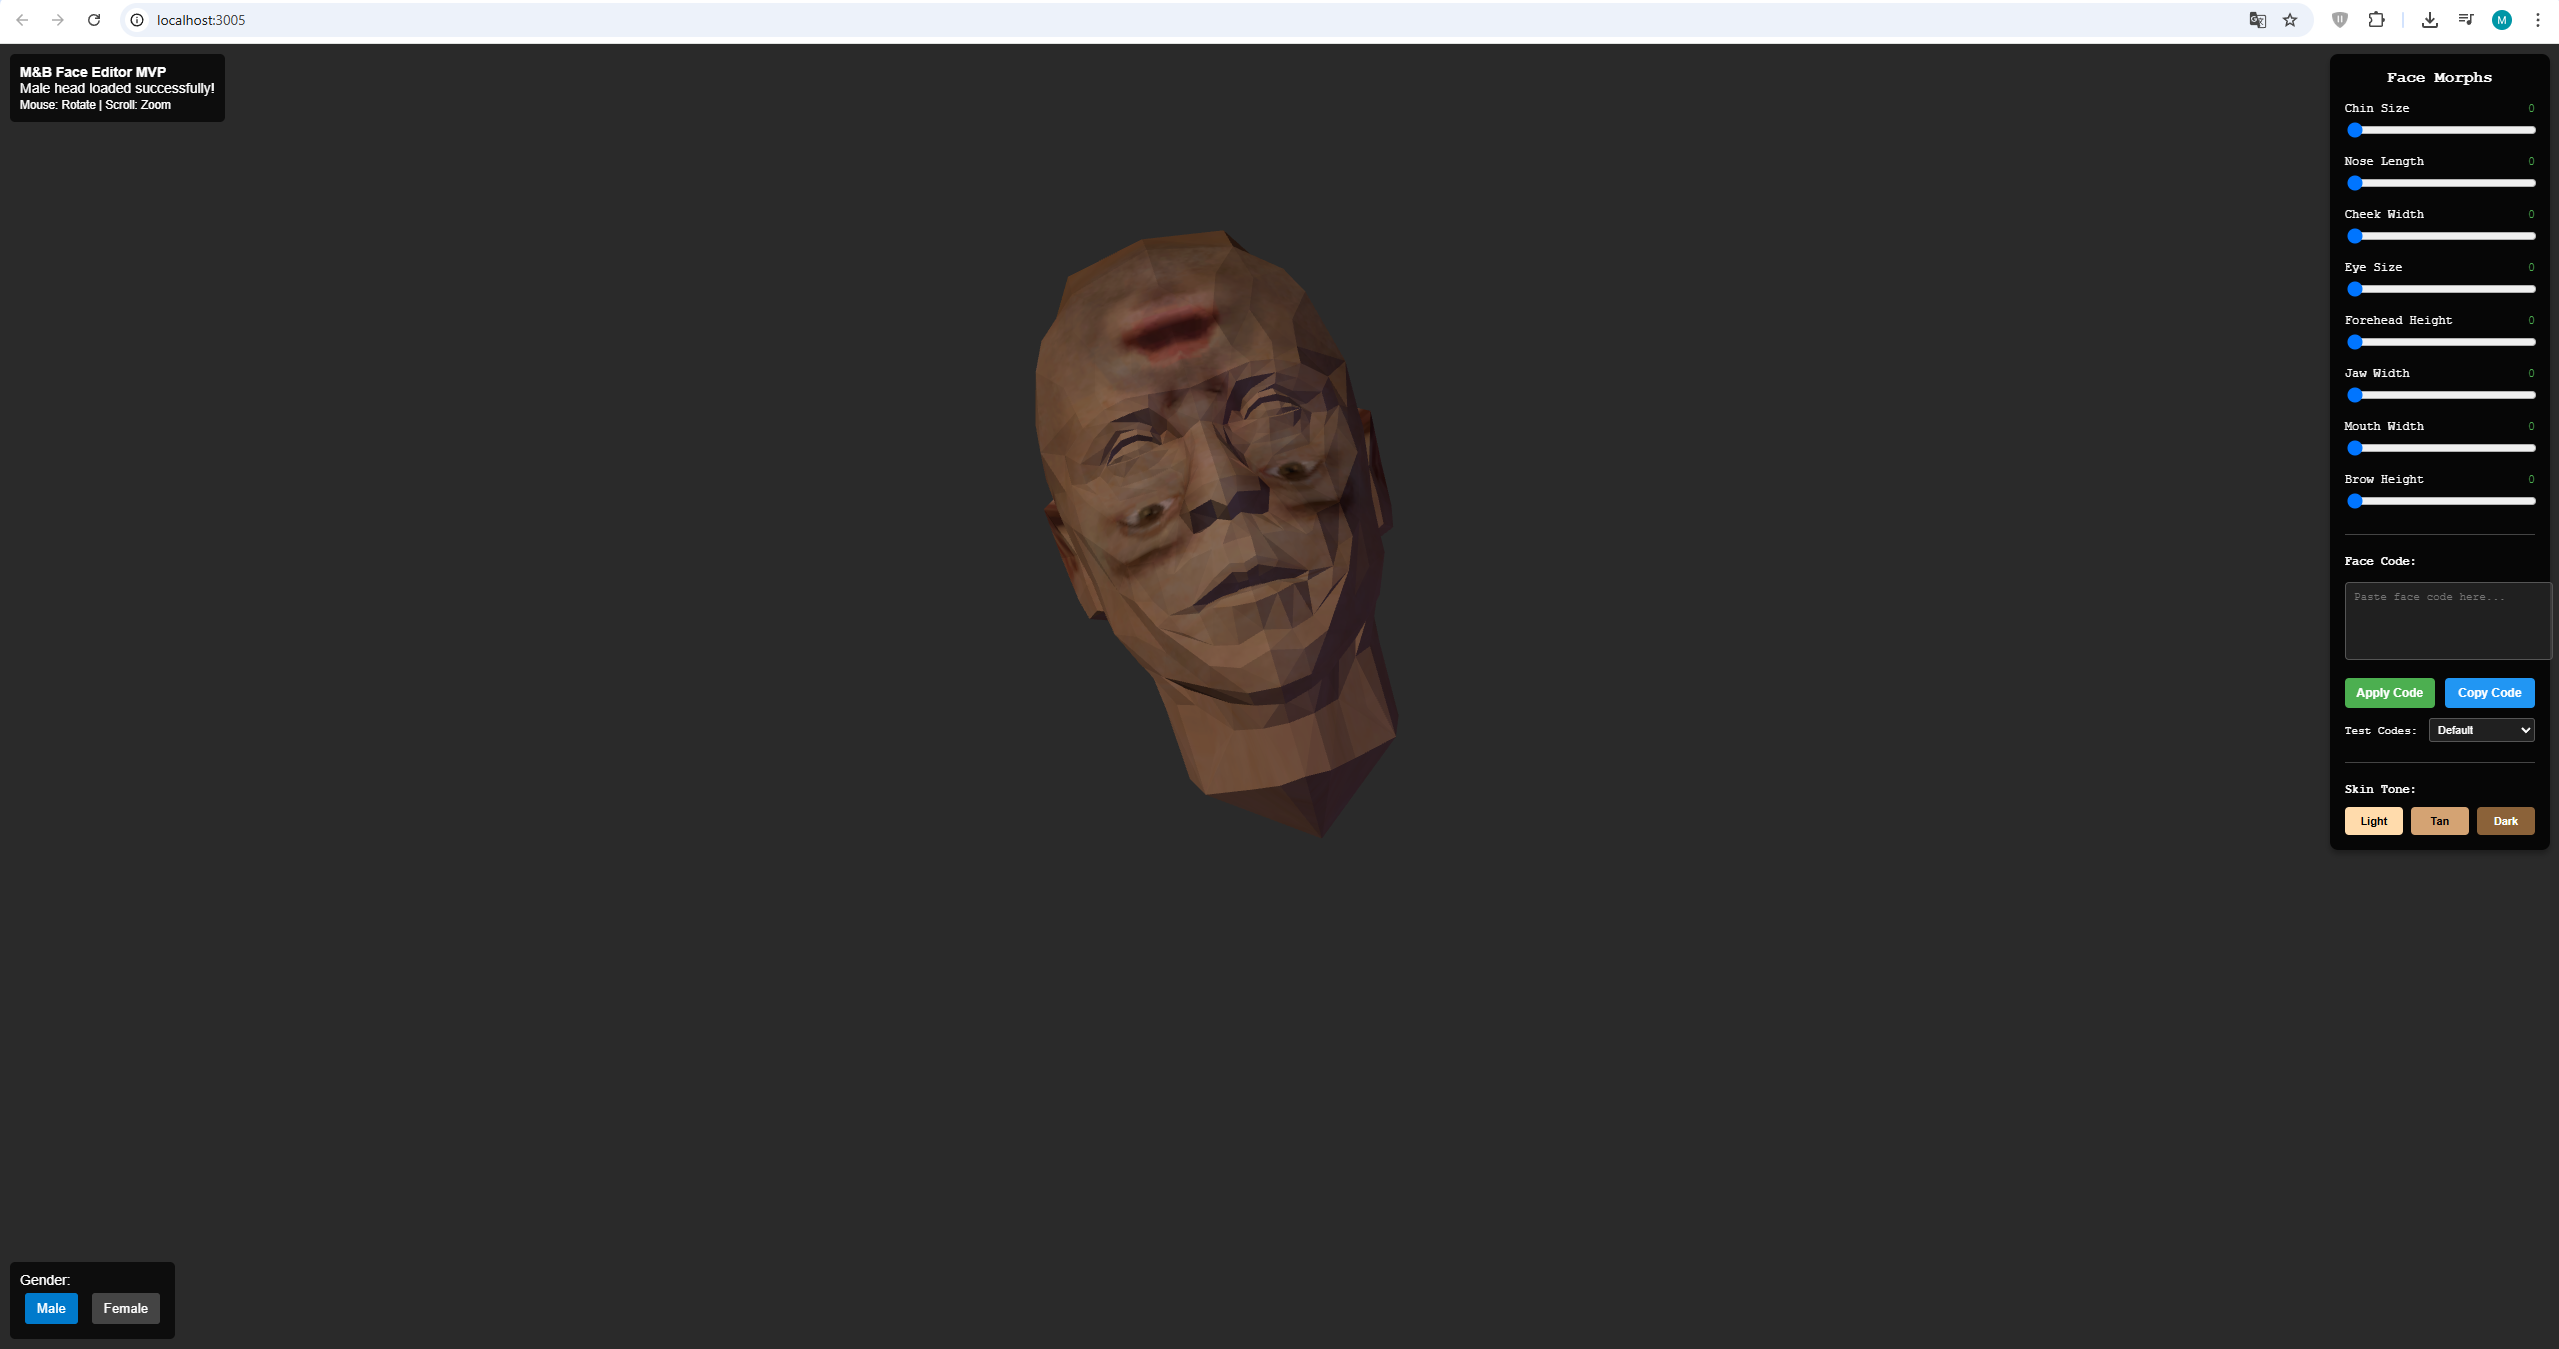
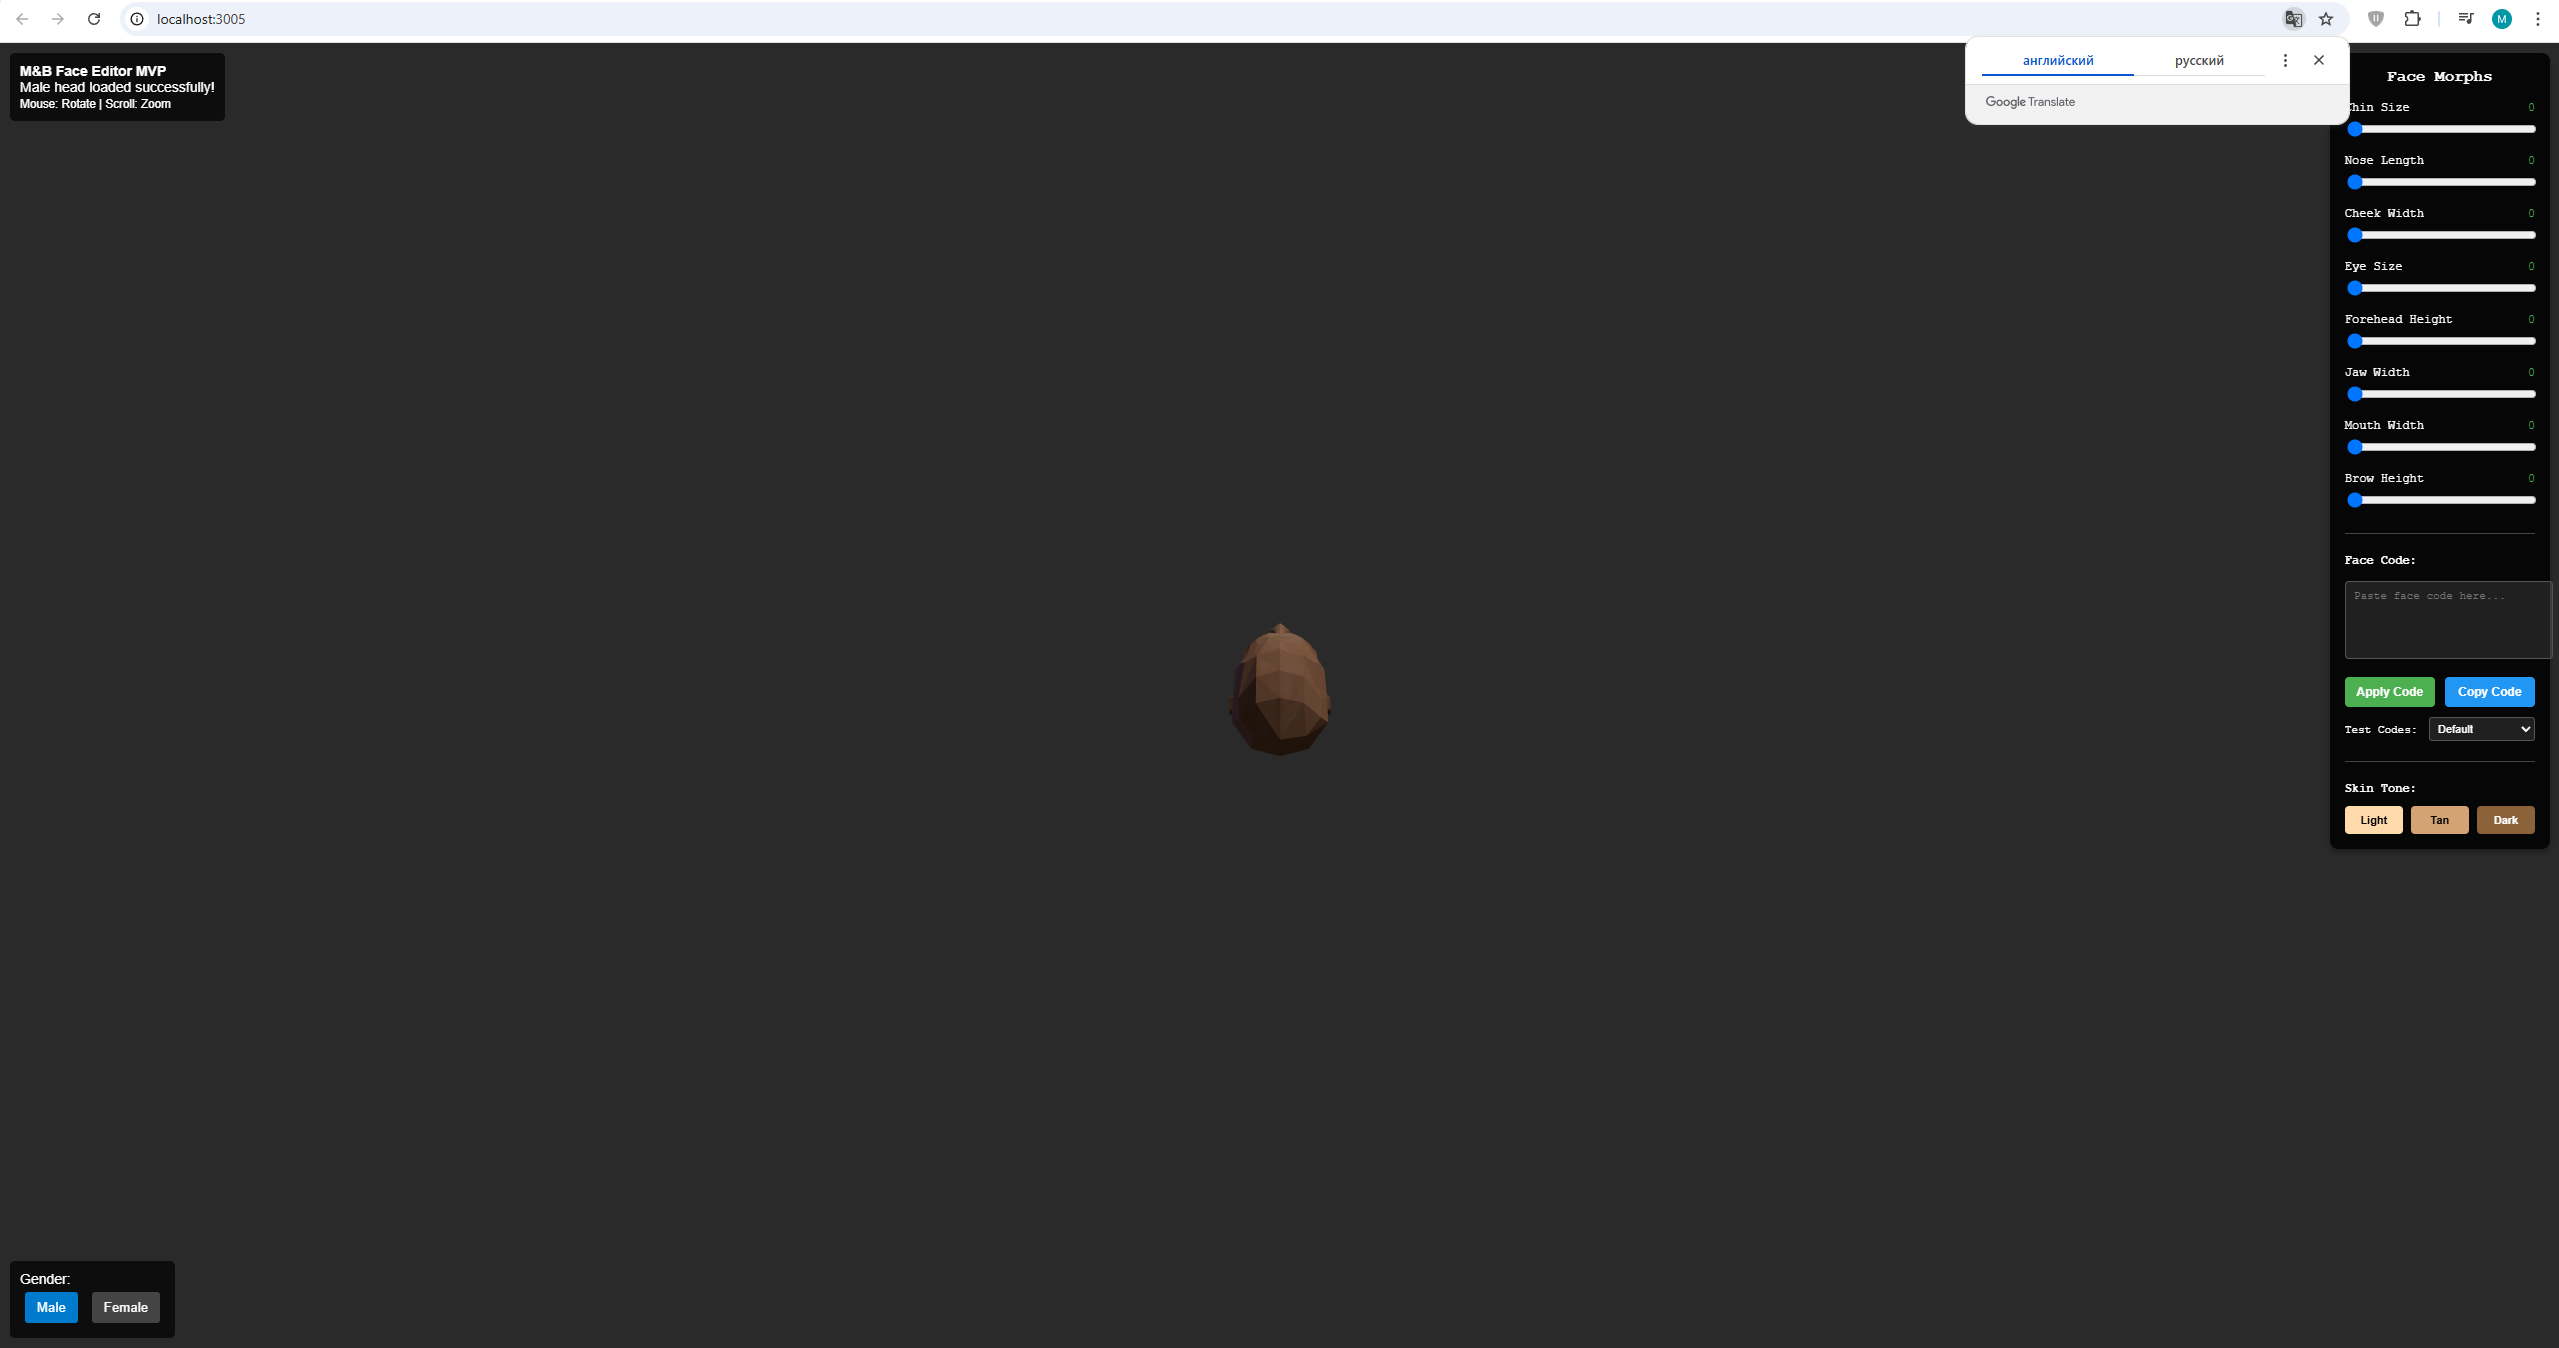
proper align

diff --git a/warband-face-editor-frontend/src/FaceViewer.js b/warband-face-editor-frontend/src/FaceViewer.js
@@ -9,6 +9,7 @@ export class FaceViewer {
         this.loader = new OBJLoader();
         this.textures = {};
         this.currentGender = 'male'; // default to male
+        this.currentSkinTone = 'white'; // default skin tone
         this.maleHead = null;
         this.femaleHead = null;
     }
@@ -60,7 +61,8 @@ export class FaceViewer {
             // Ensure proper scale and position
             this.headMesh.scale.setScalar(1);
             this.headMesh.position.set(0, 0, 0);
-            this.headMesh.rotation.set(0, 0, 0);
+            // Rotate 90 degrees around X to face forward, then 180 around Y to flip upright
+            this.headMesh.rotation.set(Math.PI / 2, Math.PI, 0);
             
             // Make sure all children are visible
             this.headMesh.traverse((child) => {
@@ -443,7 +445,12 @@ export class FaceViewer {
 
     async switchGender(gender) {
         if (gender !== this.currentGender) {
-            return await this.loadHead(gender);
+            const success = await this.loadHead(gender);
+            if (success) {
+                // Reapply the current skin tone to use gender-specific texture
+                this.setSkinTone(this.currentSkinTone);
+            }
+            return success;
         }
         return true;
     }
@@ -502,64 +509,94 @@ export class FaceViewer {
     async loadTextures() {
         const ddsLoader = new DDSLoader();
         
-        // Define DDS texture paths based on skin tone
-        const texturePaths = {
-            white: '/dds_textures/manface_young_2.dds',     // Light skin
-            tan: '/dds_textures/manface_midage.dds',        // Tan/medium skin
-            dark: '/dds_textures/manface_african.dds'       // Dark skin
+        // Initialize texture storage for both genders
+        this.textures = {
+            male: {},
+            female: {}
         };
         
-        // Additional texture variations we can use
+        // Define gender-specific texture paths
+        const genderTextures = {
+            male: {
+                white: '/dds_textures/manface_young_2.dds',     // Light skin
+                tan: '/dds_textures/manface_midage.dds',        // Tan/medium skin
+                dark: '/dds_textures/manface_african.dds'       // Dark skin
+            },
+            female: {
+                white: '/dds_textures/womanface_young.dds',     // Light skin
+                tan: '/dds_textures/womanface_brown.dds',       // Tan/medium skin
+                dark: '/dds_textures/womanface_african.dds'     // Dark skin
+            }
+        };
+        
+        // Additional texture variations for future use
         this.textureVariations = {
-            young: [
-                '/dds_textures/manface_young.dds',
-                '/dds_textures/manface_young_2.dds',
-                '/dds_textures/manface_young_3.dds'
-            ],
-            aged: [
-                '/dds_textures/manface_1_aged.dds',
-                '/dds_textures/manface_2_aged.dds',
-                '/dds_textures/manface_african_old.dds'
-            ],
-            rugged: [
-                '/dds_textures/manface_rugged.dds',
-                '/dds_textures/manface_midage_2.dds'
-            ]
+            male: {
+                young: [
+                    '/dds_textures/manface_young.dds',
+                    '/dds_textures/manface_young_2.dds',
+                    '/dds_textures/manface_young_3.dds'
+                ],
+                aged: [
+                    '/dds_textures/manface_1_aged.dds',
+                    '/dds_textures/manface_2_aged.dds',
+                    '/dds_textures/manface_african_old.dds'
+                ]
+            },
+            female: {
+                young: [
+                    '/dds_textures/womanface_young.dds',
+                    '/dds_textures/womanface_a.dds',
+                    '/dds_textures/womanface_b.dds'
+                ],
+                aged: [
+                    '/dds_textures/womanface_1_aged.dds',
+                    '/dds_textures/womanface_2_aged.dds',
+                    '/dds_textures/womanface_african_aged.dds'
+                ]
+            }
         };
         
-        // Try to load each texture
-        for (const [tone, path] of Object.entries(texturePaths)) {
-            try {
-                const texture = await new Promise((resolve, reject) => {
-                    ddsLoader.load(
-                        path,
-                        (texture) => resolve(texture),
-                        undefined,
-                        (error) => reject(error)
-                    );
-                });
-                
-                texture.colorSpace = THREE.SRGBColorSpace;
-                texture.flipY = false; // Don't flip texture since we're flipping UVs
-                texture.wrapS = THREE.RepeatWrapping;
-                texture.wrapT = THREE.RepeatWrapping;
-                this.textures[tone] = texture;
-                console.log(`Loaded ${tone} skin DDS texture from ${path}`);
-            } catch (e) {
-                console.warn(`Could not load ${tone} skin texture from ${path}:`, e);
+        // Load textures for both genders
+        let totalLoaded = 0;
+        for (const [gender, textures] of Object.entries(genderTextures)) {
+            for (const [tone, path] of Object.entries(textures)) {
+                try {
+                    const texture = await new Promise((resolve, reject) => {
+                        ddsLoader.load(
+                            path,
+                            (texture) => resolve(texture),
+                            undefined,
+                            (error) => reject(error)
+                        );
+                    });
+                    
+                    texture.colorSpace = THREE.SRGBColorSpace;
+                    texture.flipY = false; // Don't flip texture since we're flipping UVs
+                    texture.wrapS = THREE.RepeatWrapping;
+                    texture.wrapT = THREE.RepeatWrapping;
+                    this.textures[gender][tone] = texture;
+                    console.log(`Loaded ${gender} ${tone} skin DDS texture from ${path}`);
+                    totalLoaded++;
+                } catch (e) {
+                    console.warn(`Could not load ${gender} ${tone} skin texture from ${path}:`, e);
+                }
             }
         }
         
-        // If no textures loaded, we'll use color fallbacks
-        if (Object.keys(this.textures).length === 0) {
+        // Report loading status
+        if (totalLoaded === 0) {
             console.log('No DDS textures found, using color-based materials');
         } else {
-            console.log(`Successfully loaded ${Object.keys(this.textures).length} DDS textures`);
+            console.log(`Successfully loaded ${totalLoaded} DDS textures`);
         }
     }
 
     setSkinTone(tone) {
         if (!this.headMesh || !this.headMesh.material) return;
+        
+        // Track current skin tone
+        this.currentSkinTone = tone;
         
         // Define skin tone colors for fallback
         const skinColors = {
@@ -570,19 +607,23 @@ export class FaceViewer {
         
         const selectedSkin = skinColors[tone] || skinColors.white;
         
-        if (this.textures[tone]) {
+        // Get gender-specific texture
+        const genderTextures = this.textures[this.currentGender] || {};
+        const texture = genderTextures[tone];
+        
+        if (texture) {
             // Apply texture if available
-            this.headMesh.material.map = this.textures[tone];
+            this.headMesh.material.map = texture;
             this.headMesh.material.color.setHex(0xffffff); // Reset color to white when using texture
             this.headMesh.material.needsUpdate = true;
-            console.log(`Applied ${tone} skin texture`);
+            console.log(`Applied ${this.currentGender} ${tone} skin texture`);
         } else {
             // Fallback to color-based material
             this.headMesh.material.map = null;
             this.headMesh.material.color.setHex(selectedSkin.color);
             this.headMesh.material.specular.setHex(selectedSkin.specular);
             this.headMesh.material.needsUpdate = true;
-            console.log(`Applied ${tone} skin color (no texture available)`);
+            console.log(`Applied ${tone} skin color (no texture available for ${this.currentGender})`);
         }
     }
 }

diff --git a/warband-face-editor-frontend/src/main.js b/warband-face-editor-frontend/src/main.js
@@ -17,7 +17,7 @@ const camera = new THREE.PerspectiveCamera(
     0.1, 
     1000
 );
-camera.position.set(0, 0, 3);
+camera.position.set(0, 0, 1); // Position camera closer for better face view
 
 // Renderer setup
 const renderer = new THREE.WebGLRenderer({ 
@@ -29,22 +29,22 @@ renderer.setPixelRatio(window.devicePixelRatio);
 renderer.outputColorSpace = THREE.SRGBColorSpace;
 
 // Lighting setup
-const ambientLight = new THREE.AmbientLight(0x404040, 1.5);
+const ambientLight = new THREE.AmbientLight(0x404040, 2); // Increase ambient light
 scene.add(ambientLight);
 
 const directionalLight = new THREE.DirectionalLight(0xffffff, 1);
-directionalLight.position.set(5, 10, 5);
+directionalLight.position.set(0, 5, 10); // Move light to front
 scene.add(directionalLight);
 
-const fillLight = new THREE.DirectionalLight(0x8888ff, 0.3);
-fillLight.position.set(-5, 0, -5);
+const fillLight = new THREE.DirectionalLight(0x8888ff, 0.5); // Increase fill light
+fillLight.position.set(-5, 0, 5); // Move to illuminate face from side
 scene.add(fillLight);
 
 // Camera controls
 const controls = new OrbitControls(camera, renderer.domElement);
 controls.enableDamping = true;
 controls.dampingFactor = 0.05;
-controls.target.set(0, 0, 0);
+controls.target.set(0, 0, 0); // Look at center
 
 // Handle window resize
 window.addEventListener('resize', () => {
@@ -116,6 +116,8 @@ async function init() {
         
         if (success) {
             updateInfo('Male head loaded successfully!');
+            // Apply default light skin tone
+            faceViewer.setSkinTone('white');
         } else {
             updateInfo('Using fallback head model');
         }
